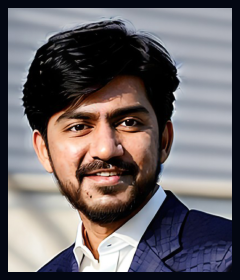
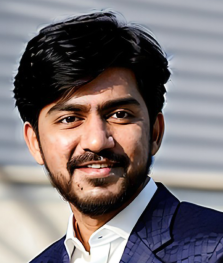
makes dark and light mode prototype

diff --git a/pages/components/header.js b/pages/components/header.js
@@ -2,27 +2,50 @@ import Link from "next/link";
 import { IoMoonOutline } from "react-icons/io5";
 import { GiHamburgerMenu, GiHidden } from "react-icons/gi";
 
-const nav_bar = [{name: "About", link : "/About"},]
+const com_styles = [
+  { name: "--bg-color", dark: "#030712", light: "#FFFFFF" },
+  { name: "--head-color", dark: "#F9FAFB", light: "#111827" },
+  { name: "--text-color", dark: "#D1D5DB", light: "#4B5563" },
+  { name: "--text-on-button", dark: "#111827", light: "#F9FAFB" },
+  { name: "--line-bg", dark: "#1F2937", light: "#F3F4F6" },
+  { name: "--portrait-bg", dark: "#374151", light: "#E5E7EB" },
+  { name: "--sec-bg-color", dark: "#111827", light: "#F9FAFB" }
+];
+
+const nav_bar = [{ name: "About", link: "/About" }];
+
+let dark = true;
 
 export function Header() {
   let logo = "<SS/>";
   return (
-    <div className="flex justify-center content-center lg:px-[80px] lg:py-4 w-[100%] p-4">
+    <div className="flex justify-center content-center bg-[--bg-color] lg:px-[80px] lg:py-4 w-[100%] p-4">
       <div className="flex justify-between lg:px-8 items-center w-[100%] max-w-[1280px]">
-        <span className="text-3xl text-bold">{logo}</span>
+        <span className="text-3xl text-bold text-[--head-color]">{logo}</span>
         <div className=" hidden gap-6 items-center lg:flex">
           <Link href={"/experience"}>About</Link>
           <Link href={"#"}>Work</Link>
           <Link href={"#"}>Testimonials</Link>
           <Link href={"#"}>Contact</Link>
           <div className="w-[1px] bg-[--line-bg] h-6"></div>
-          <IoMoonOutline size={20} />
+          <div onClick={changeMod}>
+            <IoMoonOutline size={20} />
+          </div>
           <button className="text-[--text-on-button] bg-[--head-color] px-4 py-[6px] rounded-[12px]">
             Download CV
           </button>
         </div>
-        <GiHamburgerMenu size={24} className="lg:hidden"/>
+        <GiHamburgerMenu size={24} className="lg:hidden" />
       </div>
     </div>
   );
+}
+
+function changeMod() {
+  const styles = document.documentElement.style;
+  for (let i = 0; i < com_styles.length; i++){
+    styles.setProperty(com_styles[i].name, dark ? com_styles[i].light : com_styles[i].dark)
+    
+  }
+  dark ? dark = false: dark = true;
 }

diff --git a/pages/components/hero.js b/pages/components/hero.js
@@ -33,9 +33,9 @@ export function Portrait(props) {
             src={props.number == 2 ? "/Images/Pic2.png" : "/Images/Pic.png"}
             className={
               (props.number == 2
-                ? "w-[280px] lg:w-[400px] h-[360px] lg:h-[480px] lg:left-10"
-                : "w-[240px] lg:w-[280px] h-[280px] lg:h-[320px] lg:left-[-40px] ") +
-              " absolute bottom-3 left-3  lg:bottom-10 "
+                ? "w-[280px] lg:w-[400px] h-[360px] lg:h-[480px] lg:left-10 border-[--sec-bg-color] "
+                : "w-[240px] lg:w-[280px] h-[280px] lg:h-[320px] lg:left-[-40px] border-[--bg-color] ") +
+              " absolute bottom-3 left-3  lg:bottom-10 border-[8px]"
             }
           />
         </div>

diff --git a/pages/components/contact.js b/pages/components/contact.js
@@ -1,6 +1,6 @@
 import { IoCopy } from "react-icons/io5";
 import { IoIosMail } from "react-icons/io";
-import { Topic } from "./components/about";
+import { Topic } from "./about";
 import { IoIosCall } from "react-icons/io";
 import { Social } from "./hero";
 

diff --git a/pages/components/skills.js b/pages/components/skills.js
@@ -1,4 +1,4 @@
-import { Topic } from "./components/about";
+import { Topic } from "./about";
 import Image from "next/image";
 const skills_lis = [
   { name: "Javascript" },

diff --git a/pages/components/work.js b/pages/components/work.js
@@ -1,4 +1,4 @@
-import { Topic } from "./components/about";
+import { Topic } from "./about";
 import Image from "next/image";
 import { CiShare1 } from "react-icons/ci";
 

diff --git a/pages/components/experience.js b/pages/components/experience.js
@@ -1,5 +1,5 @@
 import { stringify } from "postcss";
-import { Topic } from "./components/about";
+import { Topic } from "./about";
 
 let i = 0;
 

diff --git a/pages/index.js b/pages/index.js
@@ -25,3 +25,5 @@ export default function Home() {
     </main>
   );
 }
+
+
